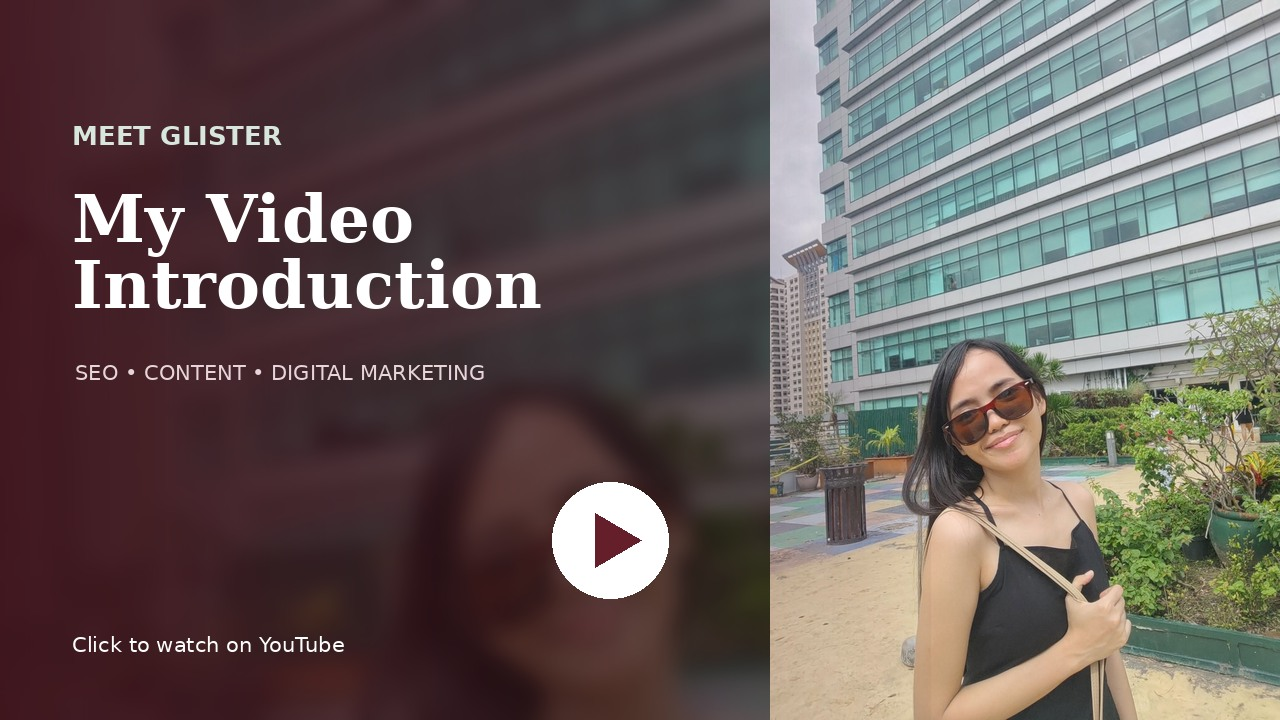
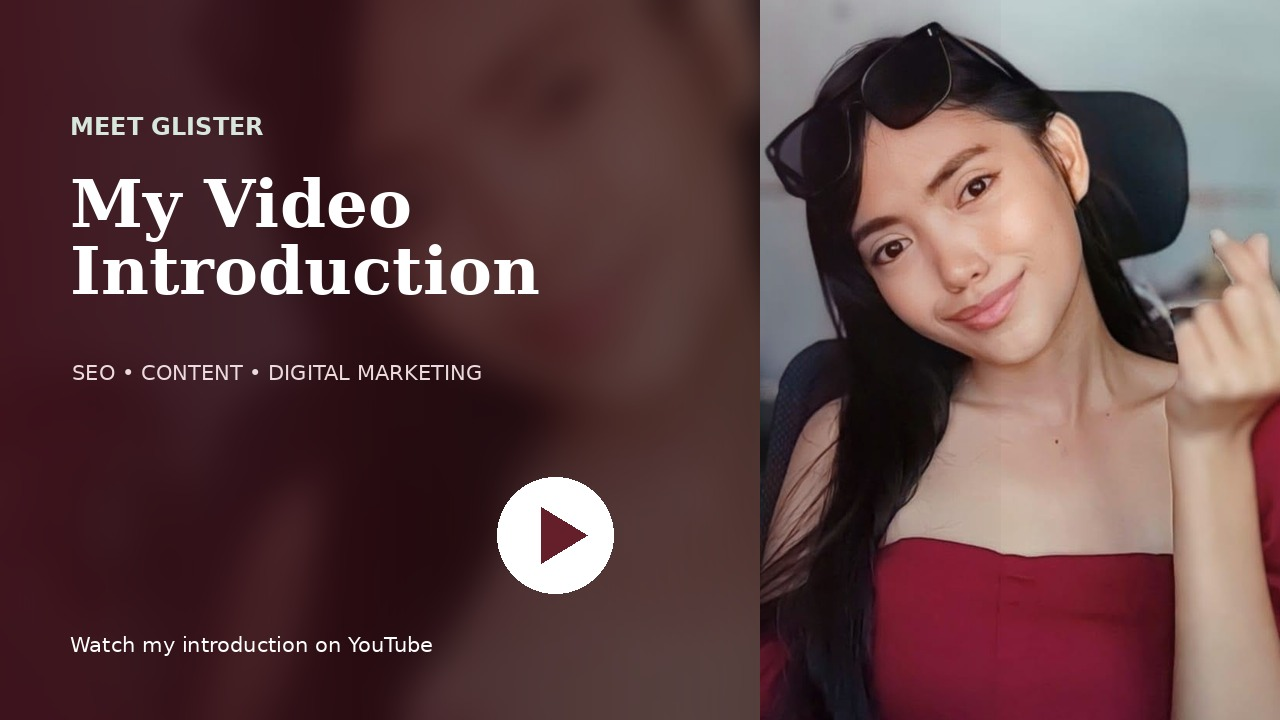
Add files via upload

diff --git a/index.html b/index.html
@@ -86,7 +86,7 @@
     .project-card{background:white;border:1px solid var(--gray-300);overflow:hidden;transition:.25s}
     .project-card:hover{transform:translateY(-6px);box-shadow:var(--shadow)}
     .project-card.hidden{display:none}
-    .preview{height:260px;display:block;position:relative;overflow:hidden;background:linear-gradient(135deg,var(--maroon-soft),var(--green-soft))}
+    .preview{aspect-ratio:16/9;height:auto;display:block;position:relative;overflow:hidden;background:linear-gradient(135deg,var(--maroon-soft),var(--green-soft))}
     .preview img{width:100%;height:100%;object-fit:cover;object-position:top;display:block;transition:.35s}
     .project-card:hover .preview img{transform:scale(1.025)}
     .preview-fallback{position:absolute;inset:0;display:grid;place-items:center;color:rgba(100,31,43,.16);font:700 72px var(--serif)}
@@ -137,8 +137,8 @@
     .hero-side .hero-stat-card strong{font-size:31px}
     .hero-side .hero-stat-card span{display:block;font-size:9px;line-height:1.35}
     .intro-grid{display:grid;grid-template-columns:1.08fr .92fr;gap:22px;align-items:stretch}
-    .video-card{position:relative;display:block;overflow:hidden;min-height:430px;background:var(--maroon-deep);border:1px solid var(--gray-300);box-shadow:var(--shadow)}
-    .video-card img{width:100%;height:100%;object-fit:cover;display:block;transition:.35s}
+    .video-card{position:relative;display:block;overflow:hidden;aspect-ratio:16/9;min-height:0;background:var(--maroon-deep);border:1px solid var(--gray-300);box-shadow:var(--shadow)}
+    .video-card img{width:100%;height:100%;object-fit:cover;object-position:center;display:block;transition:.35s}
     .video-card:hover img{transform:scale(1.025)}
     .video-card:after{content:"";position:absolute;inset:0;background:linear-gradient(to top,rgba(32,35,32,.32),transparent 45%)}
     .video-play{position:absolute;left:50%;top:50%;transform:translate(-50%,-50%);z-index:2;width:78px;height:78px;border-radius:50%;display:grid;place-items:center;background:rgba(255,255,255,.94);color:var(--maroon);font-size:27px;box-shadow:0 15px 35px rgba(0,0,0,.22);transition:.2s}
@@ -174,7 +174,7 @@
       .container{width:calc(100% - 28px)} .hero{padding:82px 0 72px}
       h1{font-size:56px} section{padding:72px 0}
       .expertise-grid,.social-list,.process-grid,.hero-side .hero-stat-card{grid-template-columns:1fr}.hero-side .hero-stat-card div{border-left:0;border-top:1px solid var(--gray-300);padding:10px 0 0}.hero-side .hero-stat-card div:first-child{border-top:0;padding-top:0}.photo-story{grid-template-columns:1fr}.photo-story figure:first-child{grid-column:auto}.hero-photo{min-height:500px}
-      .preview{height:220px} .footer-inner{display:block}
+      .preview{height:auto} .footer-inner{display:block}
     }
     @media(prefers-reduced-motion:reduce){*{scroll-behavior:auto!important;transition:none!important}.reveal{opacity:1;transform:none}}
   </style>
@@ -208,7 +208,7 @@
         </div>
         <div class="hero-side">
           <figure class="hero-photo">
-            <img src="glister-park.webp" alt="Glister Diadem Dollera outdoors in a tree-lined park">
+            <img src="glister-hero.webp" alt="Portrait of Glister Diadem Dollera in a maroon top">
             <figcaption>Writer · Strategist · Creative communicator</figcaption>
           </figure>
           <aside class="hero-stat-card" aria-label="Portfolio highlights">
@@ -308,7 +308,7 @@
     <article class="project-card reveal" data-category="seo ecommerce">
       <a class="preview" href="https://www.treeactiv.com/blogs/treeactiv-blog/teenage-skincare-acne-fighting-face-cleansers-guide" target="_blank" rel="noopener">
         <div class="preview-fallback"><strong>TE</strong></div>
-        <img loading="lazy" src="https://s.wordpress.com/mshots/v1/https%3A%2F%2Fwww.treeactiv.com%2Fblogs%2Ftreeactiv-blog%2Fteenage-skincare-acne-fighting-face-cleansers-guide?w=1200" alt="Website preview for Teenage Skincare: Acne-Fighting Face Cleansers Guide" onerror="this.style.display='none'">
+        <img loading="lazy" src="seo-thumbnails/treeactiv-teenage-skincare.jpg" alt="Website preview for Teenage Skincare: Acne-Fighting Face Cleansers Guide" onerror="this.style.display='none'">
         <span class="open-badge">Open project ↗</span>
       </a>
       <div class="project-copy">
@@ -324,7 +324,7 @@
     <article class="project-card reveal" data-category="seo ecommerce">
       <a class="preview" href="https://www.treeactiv.com/blogs/treeactiv-blog/top-5-face-cleanser-a-complete-comparison-of-the-best-products" target="_blank" rel="noopener">
         <div class="preview-fallback"><strong>TO</strong></div>
-        <img loading="lazy" src="https://s.wordpress.com/mshots/v1/https%3A%2F%2Fwww.treeactiv.com%2Fblogs%2Ftreeactiv-blog%2Ftop-5-face-cleanser-a-complete-comparison-of-the-best-products?w=1200" alt="Website preview for Top 5 Face Cleansers: A Complete Comparison" onerror="this.style.display='none'">
+        <img loading="lazy" src="seo-thumbnails/treeactiv-top-face-cleansers.jpg" alt="Website preview for Top 5 Face Cleansers: A Complete Comparison" onerror="this.style.display='none'">
         <span class="open-badge">Open project ↗</span>
       </a>
       <div class="project-copy">
@@ -340,7 +340,7 @@
     <article class="project-card reveal" data-category="seo ecommerce">
       <a class="preview" href="https://www.yanrefitness.com/how-to-open-a-gym-with-no-money/" target="_blank" rel="noopener">
         <div class="preview-fallback"><strong>HO</strong></div>
-        <img loading="lazy" src="https://s.wordpress.com/mshots/v1/https%3A%2F%2Fwww.yanrefitness.com%2Fhow-to-open-a-gym-with-no-money%2F?w=1200" alt="Website preview for How to Open a Gym with No Money" onerror="this.style.display='none'">
+        <img loading="lazy" src="seo-thumbnails/yanre-open-gym.jpg" alt="Website preview for How to Open a Gym with No Money" onerror="this.style.display='none'">
         <span class="open-badge">Open project ↗</span>
       </a>
       <div class="project-copy">
@@ -356,7 +356,7 @@
     <article class="project-card reveal" data-category="seo ecommerce">
       <a class="preview" href="https://nakocos.com/top-10-cosmetic-manufacturer/" target="_blank" rel="noopener">
         <div class="preview-fallback"><strong>TO</strong></div>
-        <img loading="lazy" src="https://s.wordpress.com/mshots/v1/https%3A%2F%2Fnakocos.com%2Ftop-10-cosmetic-manufacturer%2F?w=1200" alt="Website preview for Top 10 Cosmetic Manufacturer" onerror="this.style.display='none'">
+        <img loading="lazy" src="seo-thumbnails/nako-cosmetic-manufacturer.jpg" alt="Website preview for Top 10 Cosmetic Manufacturer" onerror="this.style.display='none'">
         <span class="open-badge">Open project ↗</span>
       </a>
       <div class="project-copy">
@@ -372,7 +372,7 @@
     <article class="project-card reveal" data-category="seo ecommerce">
       <a class="preview" href="https://standmore.com/blogs/news/exploring-ergonomic-benefits-of-standmore-collapsible-standing-desk" target="_blank" rel="noopener">
         <div class="preview-fallback"><strong>ER</strong></div>
-        <img loading="lazy" src="https://s.wordpress.com/mshots/v1/https%3A%2F%2Fstandmore.com%2Fblogs%2Fnews%2Fexploring-ergonomic-benefits-of-standmore-collapsible-standing-desk?w=1200" alt="Website preview for Ergonomic Benefits of the StandMore Collapsible Standing Desk" onerror="this.style.display='none'">
+        <img loading="lazy" src="seo-thumbnails/standmore-ergonomic-desk.jpg" alt="Website preview for Ergonomic Benefits of the StandMore Collapsible Standing Desk" onerror="this.style.display='none'">
         <span class="open-badge">Open project ↗</span>
       </a>
       <div class="project-copy">
@@ -388,7 +388,7 @@
     <article class="project-card reveal" data-category="seo ecommerce">
       <a class="preview" href="https://natrisweet.com/blogs/natrisweet-blog/organic-monk-fruit-extract-a-sweet-solution-to-health-conscious-living" target="_blank" rel="noopener">
         <div class="preview-fallback"><strong>OR</strong></div>
-        <img loading="lazy" src="https://s.wordpress.com/mshots/v1/https%3A%2F%2Fnatrisweet.com%2Fblogs%2Fnatrisweet-blog%2Forganic-monk-fruit-extract-a-sweet-solution-to-health-conscious-living?w=1200" alt="Website preview for Organic Monk Fruit Extract: A Sweet Solution" onerror="this.style.display='none'">
+        <img loading="lazy" src="seo-thumbnails/natrisweet-monk-fruit.jpg" alt="Website preview for Organic Monk Fruit Extract: A Sweet Solution" onerror="this.style.display='none'">
         <span class="open-badge">Open project ↗</span>
       </a>
       <div class="project-copy">
@@ -404,7 +404,7 @@
     <article class="project-card reveal" data-category="seo">
       <a class="preview" href="https://comm-clean.com/emergency-flood-services-to-help-restore-your-business-operations/" target="_blank" rel="noopener">
         <div class="preview-fallback"><strong>EM</strong></div>
-        <img loading="lazy" src="https://s.wordpress.com/mshots/v1/https%3A%2F%2Fcomm-clean.com%2Femergency-flood-services-to-help-restore-your-business-operations%2F?w=1200" alt="Website preview for Emergency Flood Services to Restore Business Operations" onerror="this.style.display='none'">
+        <img loading="lazy" src="seo-thumbnails/comm-clean-flood-services.jpg" alt="Website preview for Emergency Flood Services to Restore Business Operations" onerror="this.style.display='none'">
         <span class="open-badge">Open project ↗</span>
       </a>
       <div class="project-copy">
@@ -420,7 +420,7 @@
     <article class="project-card reveal" data-category="seo editorial">
       <a class="preview" href="https://www.creationillustrated.com/how-to-help-your-family-cope-with-anxiety-tips-and-bible-verses/" target="_blank" rel="noopener">
         <div class="preview-fallback"><strong>HO</strong></div>
-        <img loading="lazy" src="https://s.wordpress.com/mshots/v1/https%3A%2F%2Fwww.creationillustrated.com%2Fhow-to-help-your-family-cope-with-anxiety-tips-and-bible-verses%2F?w=1200" alt="Website preview for How to Help Your Family Cope with Anxiety" onerror="this.style.display='none'">
+        <img loading="lazy" src="seo-thumbnails/creation-anxiety-family.jpg" alt="Website preview for How to Help Your Family Cope with Anxiety" onerror="this.style.display='none'">
         <span class="open-badge">Open project ↗</span>
       </a>
       <div class="project-copy">
@@ -436,7 +436,7 @@
     <article class="project-card reveal" data-category="seo editorial">
       <a class="preview" href="https://www.creationillustrated.com/why-reading-a-magazine-daily-can-transform-your-life/" target="_blank" rel="noopener">
         <div class="preview-fallback"><strong>WH</strong></div>
-        <img loading="lazy" src="https://s.wordpress.com/mshots/v1/https%3A%2F%2Fwww.creationillustrated.com%2Fwhy-reading-a-magazine-daily-can-transform-your-life%2F?w=1200" alt="Website preview for Why Reading a Magazine Daily Can Transform Your Life!" onerror="this.style.display='none'">
+        <img loading="lazy" src="seo-thumbnails/creation-magazine-daily.jpg" alt="Website preview for Why Reading a Magazine Daily Can Transform Your Life!" onerror="this.style.display='none'">
         <span class="open-badge">Open project ↗</span>
       </a>
       <div class="project-copy">
